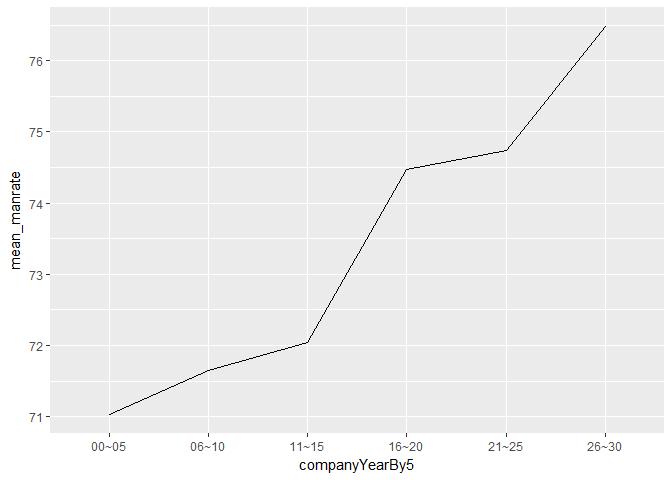
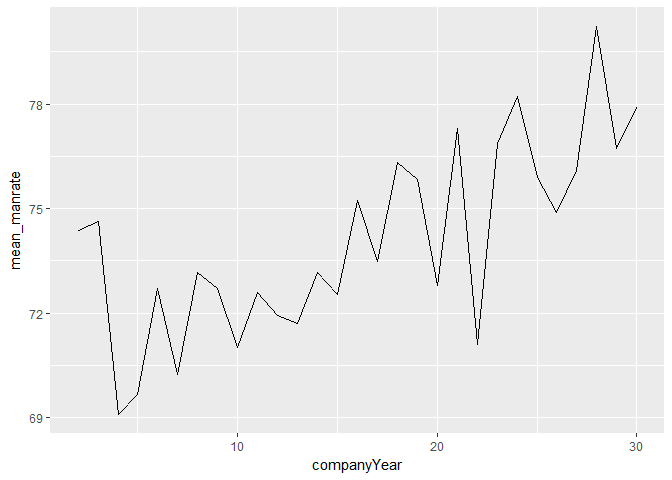
Add files via upload

diff --git a/songmingi.md b/songmingi.md
@@ -11,6 +11,8 @@
 
 벤처기업 설립 후 기간(년수)에 따른 성비 변화
 
+시사저널 e \[2017 사업보고서-직원\] 30대 기업 남녀성비 불균형 심각 &lt; <http://www.sisajournal-e.com/biz/article/166951> &gt; 의 자료에 따르면 30대 기업 10명 중 8명이 남성일 정도로 성비 불균형이 심각하다고 한다. 본 팀은 이에 문제의식을 갖고, 벤처기업에서도 같은 현상이 나타나는지에 대해 알아보고자 했다. 또한 어떤 요인들이 성비에 영향을 주는지 조사하고자 이 주제를 선정하게 되었다.
+
 3 데이터 선정
 -------------
 
@@ -33,7 +35,7 @@
 
 ### 분석 목적 및 방법
 
-'2016년 벤처기업정밀실태조사' 데이터를 이용해 기업의 연수에 따른 성비 변화를 분석할 것이다. <시사저널 e [2017 사업보고서-직원] 30대 기업 남녀성비 불균형 심각> (<http://www.sisajournal-e.com/biz/article/166951>) 의 자료에 따르면 30대 기업 10명 중 8명이 남성일 정도로 성비 불균형이 심각하다고 한다. 필자는 대기업이 아닌 벤처 기업에서도 이러한 성비 불균형 현상이 나타날 것이라 추측했고, 어떤 변수들이 성비에 영향을 미치는지 알아보고 싶었다. 이 보고서는 설립한 지 오래된 회사일수록 성비 불균형 현상이 크게 나타날 것이라는 가설을 기반으로 분석된 결과이다.
+'2016년 벤처기업정밀실태조사' 데이터를 이용해 기업의 연수에 따른 성비 변화를 분석할 것이다. 위의 분석 주제에서도 언급했듯 대기업에서도 성비 불균형이 심각하다고 한다. 필자는 대기업이 아닌 벤처 기업에서도 이러한 성비 불균형 현상이 나타날 것이라 추측했고, 어떤 변수들이 성비에 영향을 미치는지 알아보고 싶었다. 이 보고서는 설립한 지 오래된 회사일수록 성비 불균형 현상이 크게 나타날 것이라 예측하고 분석한 결과이다.
 
 -   데이터의 설립년도를 통해 얼마나 오래된 회사인지를 나타내는 변수를 새로 만든다.
 -   데이터의 남성과 여성 종사자 수를 이용해 성비 변수를 구한다.
@@ -62,6 +64,20 @@ data<-raw[-1,]
 
 데이터의 기본 특성을 파악한다. (보고서가 너무 길어져 임시로 비활성화)
 
+``` r
+#head(data)
+#tail(data)
+#View(data)
+dim(data)
+```
+
+    ## [1] 2049  256
+
+``` r
+#str(data)
+#summary(data)
+```
+
 ##### 필요한 변수 생성
 
 경과년수 변수 생성
@@ -69,17 +85,9 @@ data<-raw[-1,]
 ``` r
 #1년 단위
 data<- data %>% mutate(companyYear = as.integer(format(Sys.Date(),"%Y")) - strtoi(data$V11)) 
-
-#5년단위 그룹 - 그래프 단순화해서 보기 위함
-data<-data %>% mutate(companyYearBy5=ifelse(companyYear<5,"00~05",     
-                                            ifelse(companyYear<10,"06~10",
-                                                   ifelse(companyYear<15,"11~15",
-                                                          ifelse(companyYear<20,"16~20",
-                                                                 ifelse(companyYear<25,"21~25","26~30"))))))
 ```
 
 -   '설립한 지 얼마나 됐는가'를 수치화 한 변수를 만든다.
--   5년 단위로 묶어 그룹화 한 변수도 함께 만든다.
 
 성비 관련 변수 생성
 
@@ -95,6 +103,14 @@ data<-data %>% mutate(gendertotal=(man+woman))
 
 #성비 (1:1일경우 50%인 기준, 최대 100%)
 data<-data %>% mutate(manrate=(man/gendertotal*100))
+
+#세분화된 지역을 권역으로 묶은 변수를 만든다.
+data <- data %>% mutate(location = ifelse(V6 %in% c("서울"), "서울",
+                        ifelse(V6 %in% c("경기","인천"), "수도권",
+                               ifelse(V6 %in% c("충남","대전","세종","충북"), "충청권",
+                                      ifelse(V6 %in% c("강원"), "강원권",
+                                             ifelse(V6 %in% c("대구","부산","경남", "경북","울산"), "영남권",
+                                                    ifelse(V6 %in% c("전북", "전남","광주","제주"), "호남권","기타")))))))
 ```
 
 -   남성 수, 여성 수, 사원 수, 성비 변수를 만든다.
@@ -127,7 +143,7 @@ table(is.na(data$woman))
     ## FALSE 
     ##  2048
 
-##### 빈도 확인
+##### 데이터가 유효한지
 
 ``` r
 ggplot(data=data, aes(x=companyYear)) + geom_bar()
@@ -138,54 +154,70 @@ ggplot(data=data, aes(x=companyYear)) + geom_bar()
 -   30년 이상 된 벤처기업들이 거의 없어 평균의 의미가 변질된다고 판단된다. 그래서 분석 범위를 좁히기로 했다.
 
 ``` r
-dataTo30 <- data %>% filter(companyYear<=30)
-ggplot(data=dataTo30, aes(x=companyYear)) + geom_bar()
+data <- data %>% filter(companyYear<=30)
+ggplot(data=data, aes(x=companyYear)) + geom_bar()
 ```
 
 ![](songmingi_files/figure-markdown_github/unnamed-chunk-8-1.png)
 
 -   표본이 풍부한 30년 이전 기업들로 범위를 축소했다.
 
+``` r
+#5년단위 그룹 - 그래프 단순화해서 보기 위함
+data_group5y<-data %>% mutate(companyYearBy5=ifelse(companyYear<5,"00~05",     
+                                            ifelse(companyYear<10,"06~10",
+                                                   ifelse(companyYear<15,"11~15",
+                                                          ifelse(companyYear<20,"16~20",
+                                                                 ifelse(companyYear<25,"21~25","26~30"))))))
+```
+
+-   이후 가공된 데이터를 직관적으로 시각화하기 위해 미리 5년으로 묶인 변수를 만든다.
+
 ### 분석 및 해석
 
 회사 연수에 따른 남성 비율 변화
 
 ``` r
-testG<- dataTo30 %>% group_by(companyYear) %>% summarise(mean_manrate=mean(manrate)) %>% arrange(companyYear)
-ggplot(data=testG, aes(x=companyYear,y=mean_manrate)) + geom_line()
+test<- data %>% group_by(companyYear) %>% summarise(mean_manrate=mean(manrate)) %>% arrange(companyYear)
+ggplot(data=test, aes(x=companyYear,y=mean_manrate)) + geom_line()
 ```
 
-![](songmingi_files/figure-markdown_github/unnamed-chunk-9-1.png)
+![](songmingi_files/figure-markdown_github/unnamed-chunk-10-1.png)
 
 -   회사 연수에 따른 남성 비율 변화 그래프이다. 먼저, Y축인 `mean_manrate`변수는 사내 남성의 비율을 평균화한것이고, X축인 `companyYear`는 회사가 몇 년 됐는지 알려주는 변수이다.
 -   그래프 상에서 가장 낮은 남성 비율 수치가 무려 69 이상이다. 대부분의 회사가 남초라는 의미이다.
 -   매년 요동치는 형태의 그래프지만, 전체적인 흐름은 회사가 오래될 수록 남성의 비율이 높아지고 있음을 보인다.
 
+------------------------------------------------------------------------
+
 회사 연수 (5년으로 그룹) 증가당 남성 비율 변화
 
 ``` r
-testG_5year<- dataTo30 %>% group_by(companyYearBy5) %>% summarise(mean_manrate=mean(manrate)) %>% arrange(companyYearBy5) 
-ggplot(data=testG_5year, aes(x=companyYearBy5,y=mean_manrate, group=1)) + geom_line()
+test_5year<- data_group5y %>% group_by(companyYearBy5) %>% summarise(mean_manrate=mean(manrate)) %>% arrange(companyYearBy5) 
+ggplot(data=test_5year, aes(x=companyYearBy5,y=mean_manrate, group=1)) + geom_line()
 ```
 
-![](songmingi_files/figure-markdown_github/unnamed-chunk-10-1.png)
+![](songmingi_files/figure-markdown_github/unnamed-chunk-11-1.png)
 
 -   더욱 직관적으로 보기 위해 5년 단위로 묶어 평균을 내 보았다. 오래된 회사일 수록 남성의 비율이 높아지고 있음이 더욱 확고하게 드러난다.
+
+------------------------------------------------------------------------
 
 5 논의
 ------
 
-대부분의 벤처 기업이 여성보다는 남성을 더 선호하는 것이 그래프 상에서 보인다. - 벤처 기업은 기술 위주인 경우가 많기 때문에 이공계 인원이 많이 분포한 남성의 성비가 높게 나타나는 것인가?(추측)
+대부분의 벤처 기업이 남초 현상을 보인다. - 벤처 기업은 기술 위주인 경우가 많기 때문에 이공계 인원이 많이 분포한 남성의 성비가 높게 나타나는 것인가?(추측)
 
 오래된 회사일수록 남성의 비율이 더 높은 것으로 나타났다. - 오래된 회사일수록 성 고정관념이 두드러져 남성을 선호하는 것인가? (추측) - 오래된 회사일수록 여성의 임신 등으로 인한 경력 단절 지원에 대해 비 호의적 입장을 보이는 것인가?(추측) - 여초 회사는 알 수 없는 어떤 이유로 인해 기간이 지날수록 생존에 불리한 영향을 받는가? 혹은 남성이 많은 회사가 생존에 유리한 이유가 있는가?(추측) - 여건이 열악한 벤처 기업에서 좀더 오래 일하는 성별은 군대식 문화에 익숙한 남성인가?(추측)
 
 ### 한계점, 비판점
 
--   이러한 남초 현상과 회사 연수에 따른 성비 변화가 벤처 기업에서만 일어 나는 것인지, 국내 다른 기업들(대기업 등)과 비교해 보지 않았다. 여러 데이터를 비교했다면 벤처 기업만의 문제인지, 한국 전체의 문제인지 알 수 있었을 것이다.
--   왜 오래된 회사일 수록 남성의 비율이 높은지에 대한 정확한 이유를 콕 집어 알 수 없었다.
+-   여러 데이터를 비교했다면 벤처 기업의 문제인지, 한국 전체의 문제인지 알 수 있었을 것이다.
+-   이 분석만을 가지고서는 회사가 오래될 수록 왜 성비가 높아지는지 알 수 없다.
 
 ### 추후 분석 방향
 
 -   다른 데이터와 비교하여 벤처 기업에서만 이런 현상이 일어나는지, 다른 형태의 기업에서도 이런 현상이 일어나는지 비교해보고 싶다.
 -   회사의 연수와 성비 변화에 대한 데이터를 더 수집하여, 정확한 원인을 분석해보고 싶다.
 -   개인적으로 회사의 여성 복지 관련 변수도 성비에 영향을 미칠 것이라고 추측했는데, 데이터를 더 얻을 수 있다면 해당 변수로도 분석을 해보고싶다.
+-   이러한 결과가 다른 요인에 있어서도 동일하게 나타나는지 더 많은 변수들을 통해 알아보고 싶다.

diff --git a/team2.md b/team2.md
@@ -94,9 +94,8 @@ data<- data %>% mutate(companyYear = as.integer(format(Sys.Date(),"%Y")) - strto
 ```
 
 -   '설립한 지 얼마나 됐는가'를 수치화 한 변수를 만든다.
--   5년 단위로 묶어 그룹화 한 변수도 함께 만든다.
 
-성비 관련 변수 생성
+성비 및 기타 변수 생성
 
 ``` r
 #사내 남성 수 변수 생성
@@ -156,6 +155,22 @@ table(is.na(data$woman))
     ## FALSE 
     ##  2048
 
+``` r
+table(is.na(data$businesstype))
+```
+
+    ## 
+    ## FALSE 
+    ##  2048
+
+``` r
+table(is.na(data$ceosex))
+```
+
+    ## 
+    ## FALSE 
+    ##  2048
+
 ##### 데이터가 유효한지
 
 ``` r
@@ -184,7 +199,7 @@ data_group5y<-data %>% mutate(companyYearBy5=ifelse(companyYear<5,"00~05",
                                                                  ifelse(companyYear<25,"21~25","26~30"))))))
 ```
 
--   이후 가공된 데이터를 다른 방향으로 사용하기 위해 미리 5년으로 묶인 변수를 만든다.
+-   이후 가공된 데이터를 직관적으로 시각화하기 위해 미리 5년으로 묶인 변수를 만든다.
 
 ### 분석 및 해석
 
